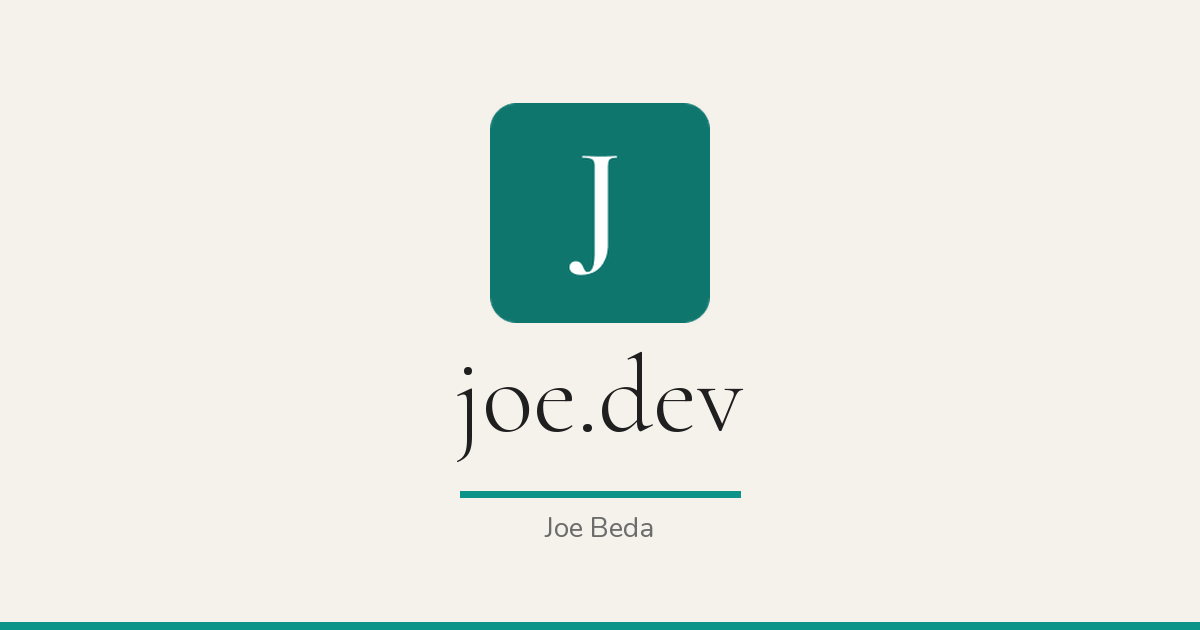
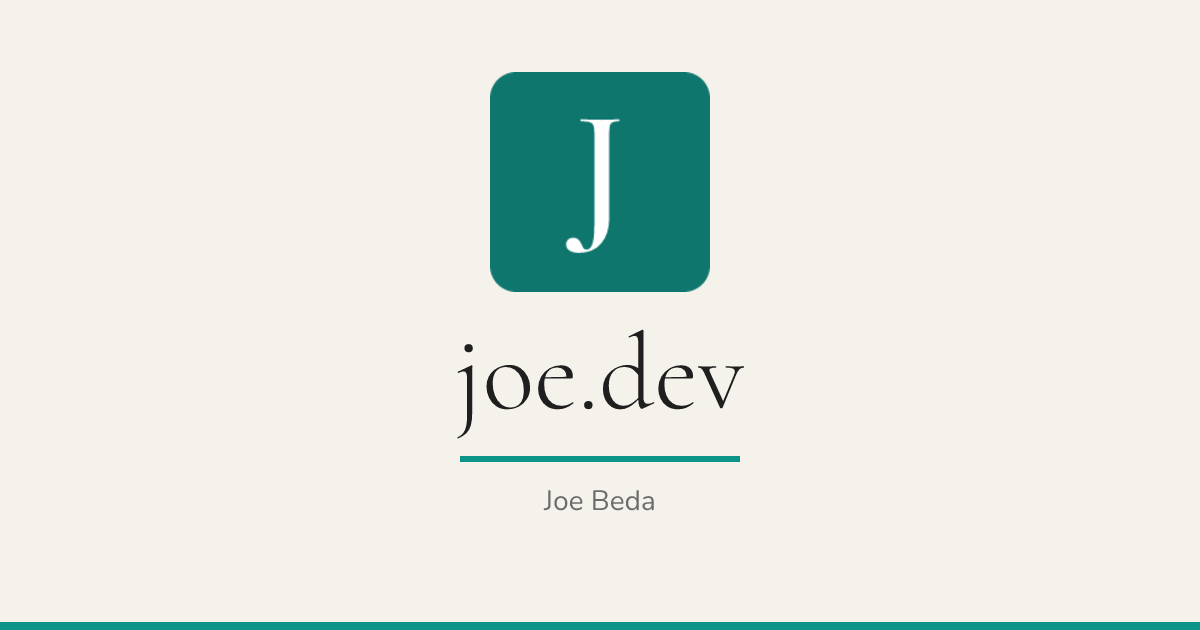
chore: upgrade satori to 0.26.0
- Bump satori 0.10.14 → 0.26.0 (yoga-wasm-web → yoga-layout 3.x)
- h() builds node objects directly; satori/jsx createElement always wraps
  rest-arg children into an array, which satori 0.26+ rejects without explicit
  display — bypassed by normalizing children before setting props
- Remove getFontAscenderRatio (unused; callers use getFontMetrics directly)
- Fix BRAND.md vertical-centering offset (was −20 px, correct value is −16 px)
- Regenerate static PNGs (favicon, apple-touch-icon, og-home) under Yoga 3.x

Changed region(s): [[0.37, 0.0905, 0.6167, 0.8746]]

diff --git a/BRAND.md b/BRAND.md
@@ -99,7 +99,7 @@ Current spec version: **"6"** (defined as `SPEC_VERSION` in `graphics-gen/src/co
 | Signature block | `static/apple-touch-icon.png` at 128 px, bottom-right; `joe.dev` / `Joe Beda` stacked below at Nunito Regular 24 px, `#6C6C6C`, centred on icon |
 | Padding | 80 px horizontal and vertical |
 
-Title block is vertically centered −20 px above true center.
+Title block is vertically centered −16 px above true center.
 
 ---
 
